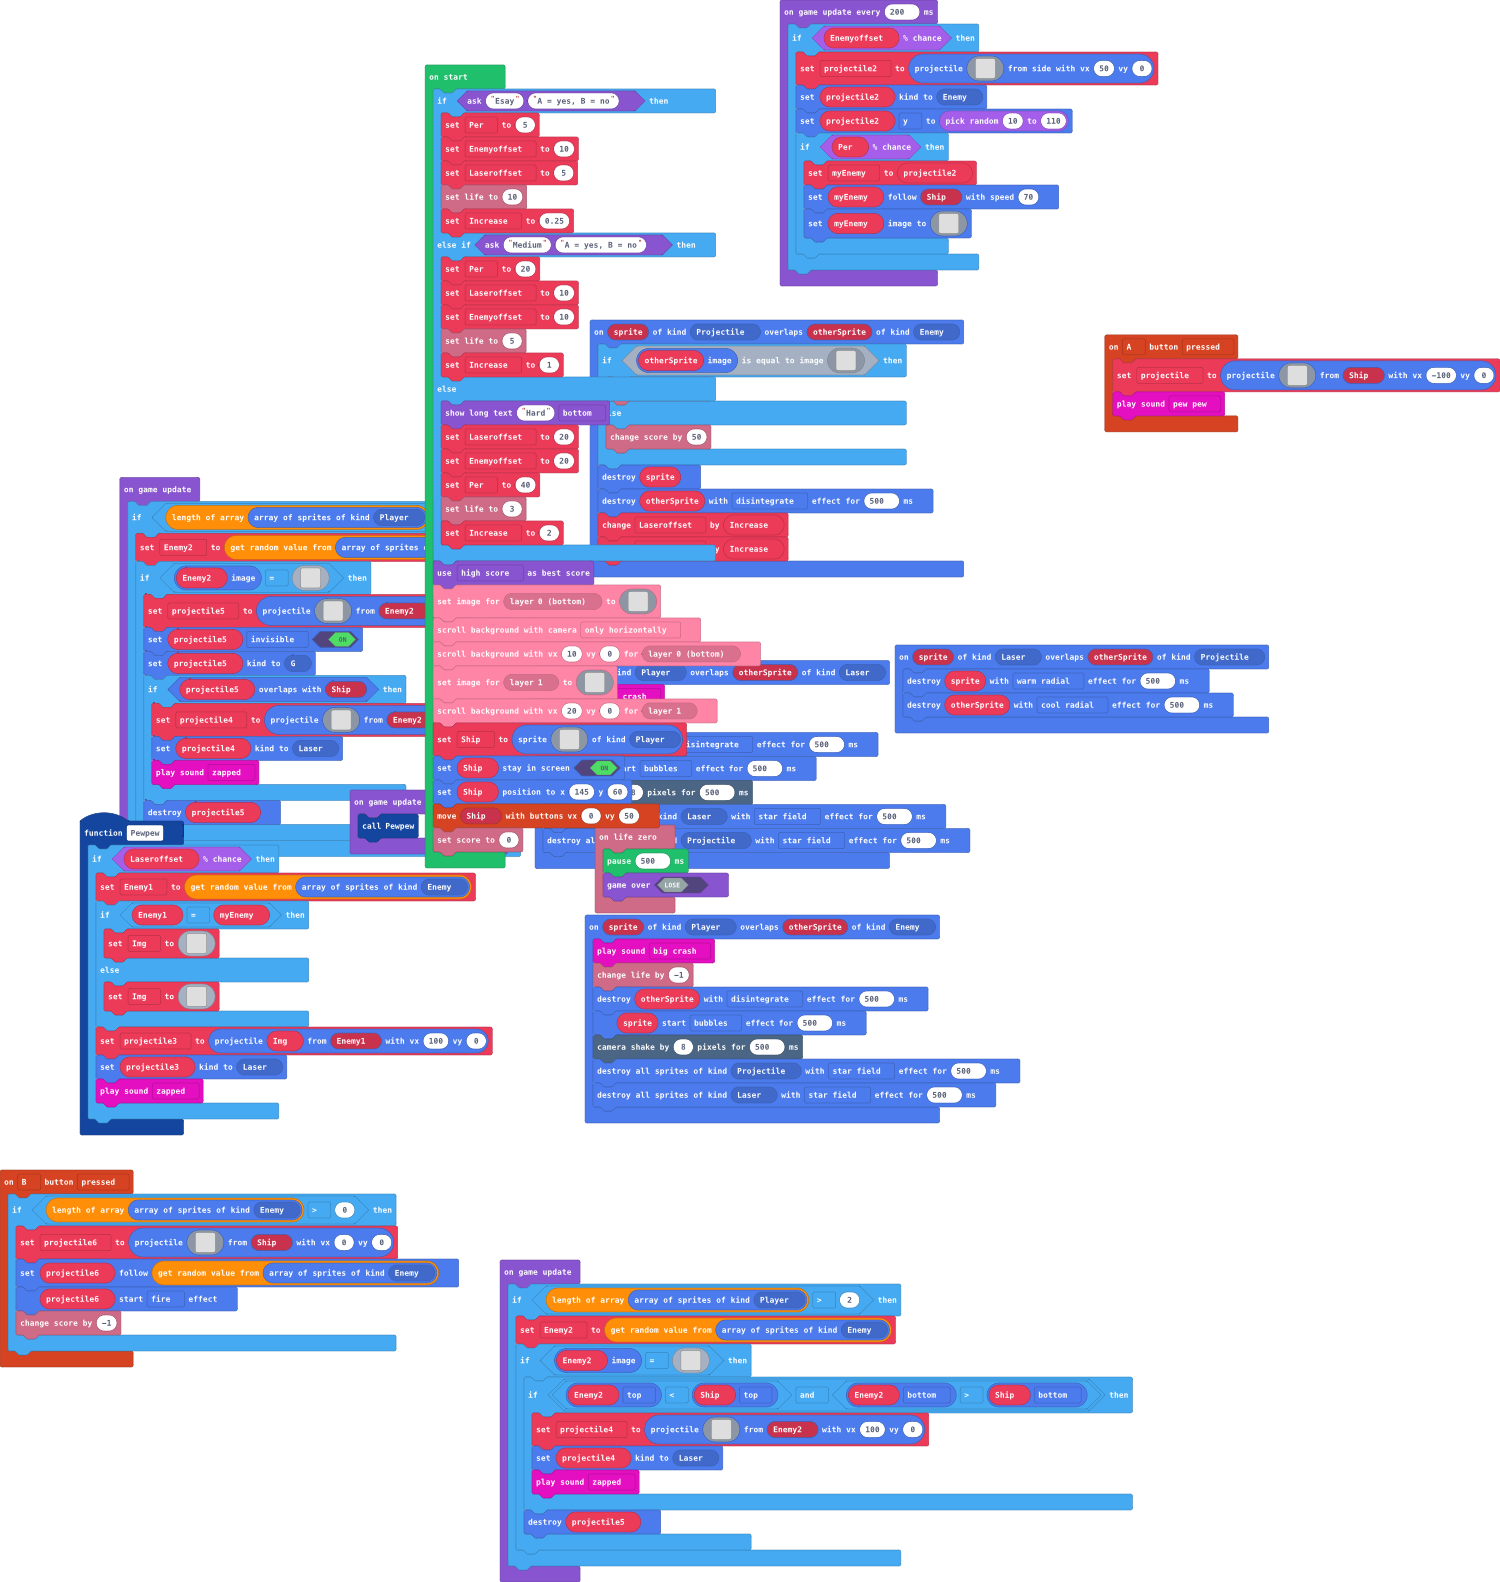
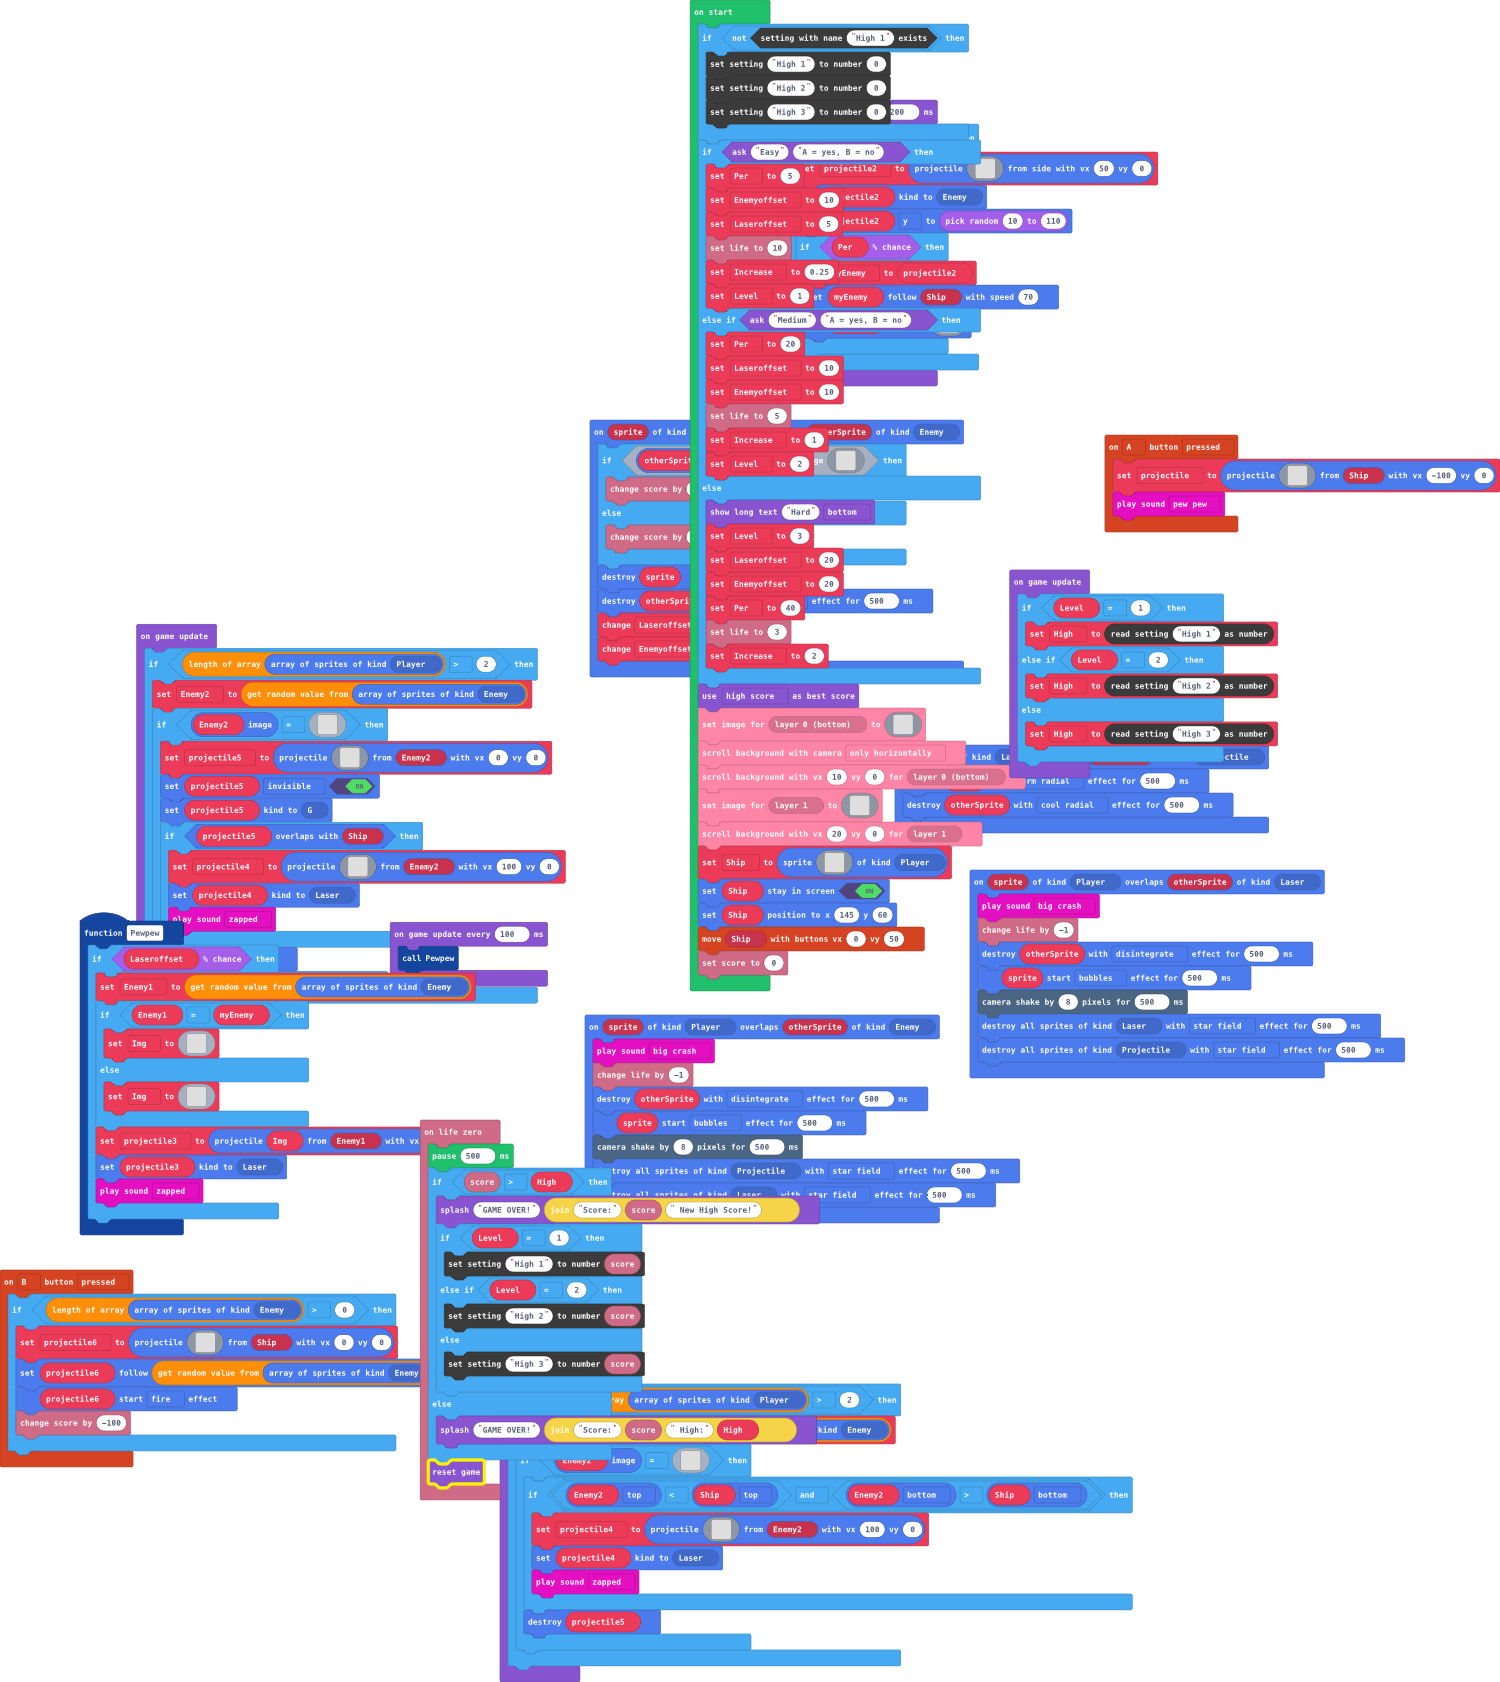
Update pxt.json, main.blocks, main.ts

diff --git a/main.ts b/main.ts
@@ -13,7 +13,7 @@ controller.B.onEvent(ControllerButtonEvent.Pressed, function () {
             `, Ship, 0, 0)
         projectile6.follow(sprites.allOfKind(SpriteKind.Enemy)._pickRandom())
         projectile6.startEffect(effects.fire)
-        info.changeScoreBy(-1)
+        info.changeScoreBy(-100)
     }
 })
 function Pewpew () {
@@ -71,7 +71,19 @@ sprites.onOverlap(SpriteKind.Laser, SpriteKind.Projectile, function (sprite, oth
 })
 info.onLifeZero(function () {
     pause(500)
-    game.over(false)
+    if (info.score() > High) {
+        game.splash("GAME OVER!", "Score:" + info.score() + " New High Score!")
+        if (Level == 1) {
+            blockSettings.writeNumber("High 1", info.score())
+        } else if (Level == 2) {
+            blockSettings.writeNumber("High 2", info.score())
+        } else {
+            blockSettings.writeNumber("High 3", info.score())
+        }
+    } else {
+        game.splash("GAME OVER!", "Score:" + info.score() + " High:" + High)
+    }
+    game.reset()
 })
 sprites.onOverlap(SpriteKind.Projectile, SpriteKind.Enemy, function (sprite, otherSprite) {
     if (otherSprite.image.equals(img`
@@ -113,6 +125,7 @@ let projectile2: Sprite = null
 let projectile4: Sprite = null
 let projectile5: Sprite = null
 let Enemy2: Sprite = null
+let High = 0
 let projectile: Sprite = null
 let projectile3: Sprite = null
 let Img: Image = null
@@ -120,24 +133,33 @@ let myEnemy: Sprite = null
 let Enemy1: Sprite = null
 let projectile6: Sprite = null
 let Ship: Sprite = null
+let Level = 0
 let Increase = 0
 let Laseroffset = 0
 let Enemyoffset = 0
 let Per = 0
-if (game.ask("Esay", "A = yes, B = no")) {
+if (!(blockSettings.exists("High 1"))) {
+    blockSettings.writeNumber("High 1", 0)
+    blockSettings.writeNumber("High 2", 0)
+    blockSettings.writeNumber("High 3", 0)
+}
+if (game.ask("Easy", "A = yes, B = no")) {
     Per = 5
     Enemyoffset = 10
     Laseroffset = 5
     info.setLife(10)
     Increase = 0.25
+    Level = 1
 } else if (game.ask("Medium", "A = yes, B = no")) {
     Per = 20
     Laseroffset = 10
     Enemyoffset = 10
     info.setLife(5)
     Increase = 1
+    Level = 2
 } else {
     game.showLongText("Hard", DialogLayout.Bottom)
+    Level = 3
     Laseroffset = 20
     Enemyoffset = 20
     Per = 40
@@ -414,6 +436,15 @@ Ship.setStayInScreen(true)
 Ship.setPosition(145, 60)
 controller.moveSprite(Ship, 0, 50)
 info.setScore(0)
+game.onUpdate(function () {
+    if (Level == 1) {
+        High = blockSettings.readNumber("High 1")
+    } else if (Level == 2) {
+        High = blockSettings.readNumber("High 2")
+    } else {
+        High = blockSettings.readNumber("High 3")
+    }
+})
 game.onUpdate(function () {
     if (sprites.allOfKind(SpriteKind.Player).length > 2) {
         Enemy2 = sprites.allOfKind(SpriteKind.Enemy)._pickRandom()
